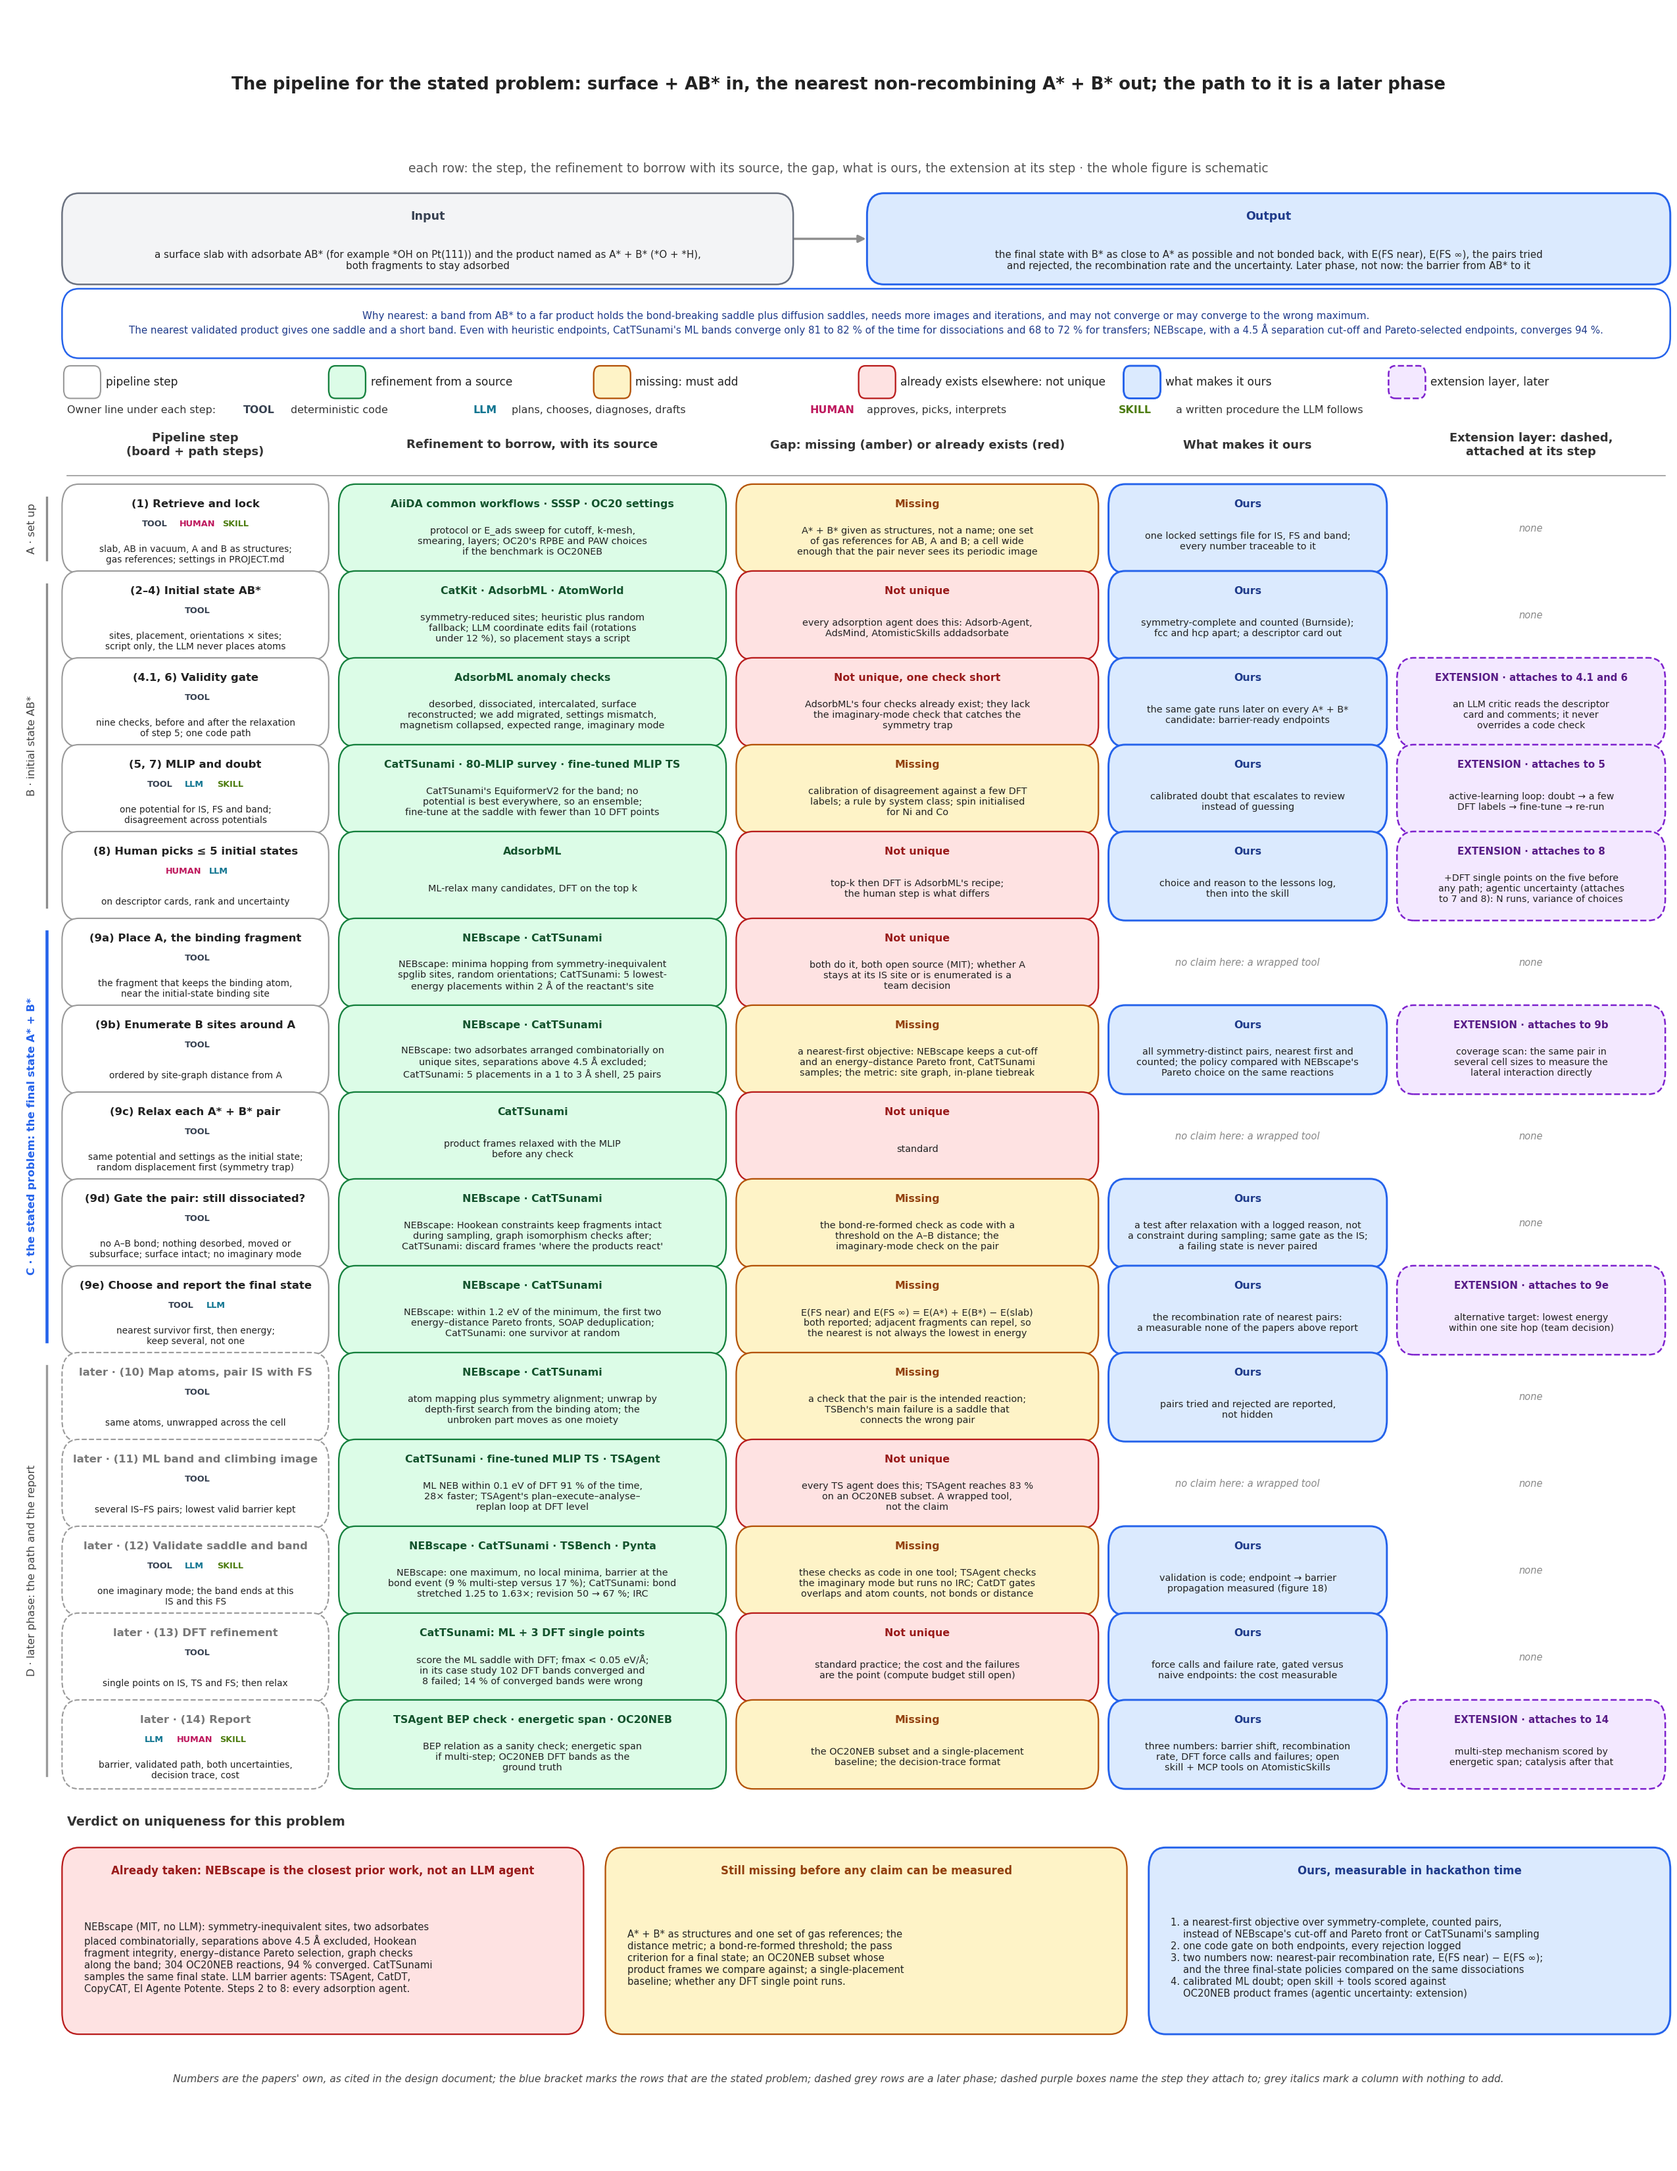
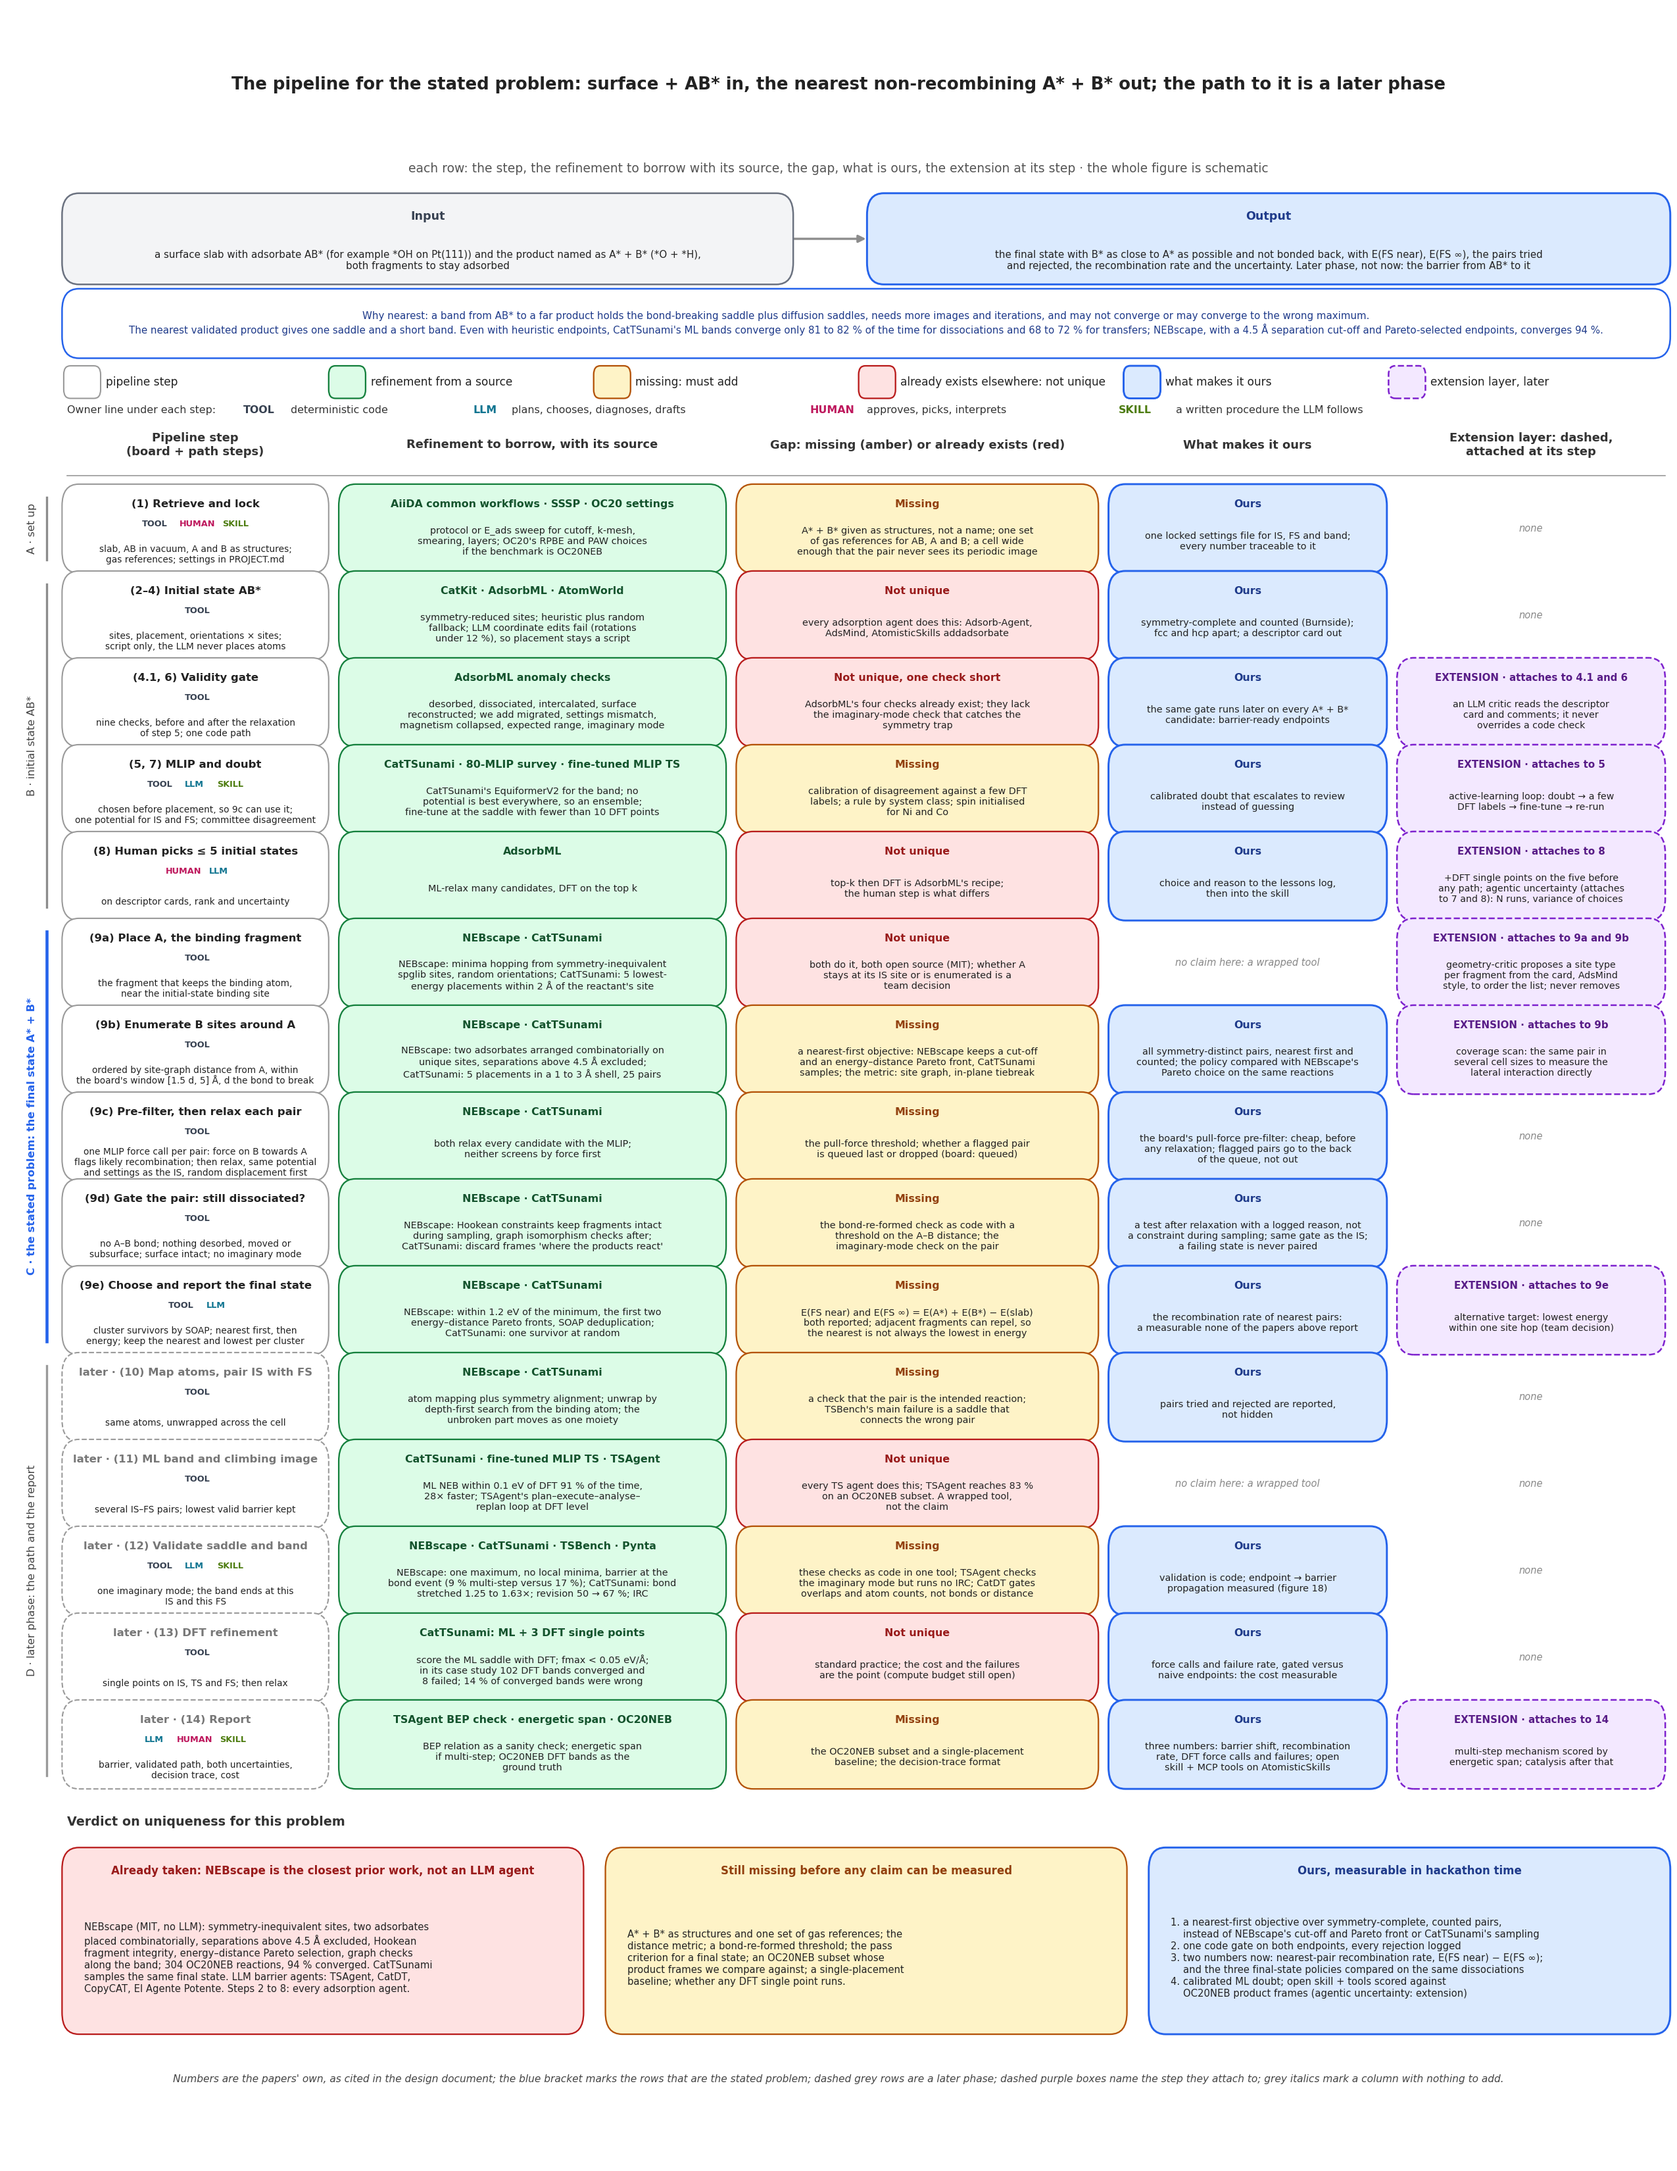
Figures 22 and 23 and the 9a to 9e tables match the board and the build context
9b within the window [1.5 d, 5] Å; 9c pre-filter by one MLIP force call, flagged pairs queued last, then relax; 9e SOAP clustering of survivors; the critic's site-type proposal as an extension at 9a and 9b; potential chosen before placement.

diff --git a/docs/figures/src/23-problem-pipeline.py b/docs/figures/src/23-problem-pipeline.py
@@ -99,7 +99,7 @@ rows = [
   ("exists", "Not unique, one check short", "AdsorbML's four checks already exist; they lack\nthe imaginary-mode check that catches the\nsymmetry trap"),
   "the same gate runs later on every A* + B*\ncandidate: barrier-ready endpoints",
   ("EXTENSION · attaches to 4.1 and 6", "an LLM critic reads the descriptor\ncard and comments; it never\noverrides a code check")),
- ("(5, 7) MLIP and doubt", "one potential for IS, FS and band;\ndisagreement across potentials",
+ ("(5, 7) MLIP and doubt", "chosen before placement, so 9c can use it;\none potential for IS and FS; committee disagreement",
   ("CatTSunami · 80-MLIP survey · fine-tuned MLIP TS", "CatTSunami's EquiformerV2 for the band; no\npotential is best everywhere, so an ensemble;\nfine-tune at the saddle with fewer than 10 DFT points"),
   ("missing", "Missing", "calibration of disagreement against a few DFT\nlabels; a rule by system class; spin initialised\nfor Ni and Co"),
   "calibrated doubt that escalates to review\ninstead of guessing",
@@ -112,21 +112,21 @@ rows = [
  ("(9a) Place A, the binding fragment", "the fragment that keeps the binding atom,\nnear the initial-state binding site",
   ("NEBscape · CatTSunami", "NEBscape: minima hopping from symmetry-inequivalent\nspglib sites, random orientations; CatTSunami: 5 lowest-\nenergy placements within 2 Å of the reactant's site"),
   ("exists", "Not unique", "both do it, both open source (MIT); whether A\nstays at its IS site or is enumerated is a\nteam decision"),
-  None, None),
- ("(9b) Enumerate B sites around A", "ordered by site-graph distance from A",
+  None, ("EXTENSION · attaches to 9a and 9b", "geometry-critic proposes a site type\nper fragment from the card, AdsMind\nstyle, to order the list; never removes")),
+ ("(9b) Enumerate B sites around A", "ordered by site-graph distance from A, within\nthe board's window [1.5 d, 5] Å, d the bond to break",
   ("NEBscape · CatTSunami", "NEBscape: two adsorbates arranged combinatorially on\nunique sites, separations above 4.5 Å excluded;\nCatTSunami: 5 placements in a 1 to 3 Å shell, 25 pairs"),
   ("missing", "Missing", "a nearest-first objective: NEBscape keeps a cut-off\nand an energy–distance Pareto front, CatTSunami\nsamples; the metric: site graph, in-plane tiebreak"),
   "all symmetry-distinct pairs, nearest first and\ncounted; the policy compared with NEBscape's\nPareto choice on the same reactions",
   ("EXTENSION · attaches to 9b", "coverage scan: the same pair in\nseveral cell sizes to measure the\nlateral interaction directly")),
- ("(9c) Relax each A* + B* pair", "same potential and settings as the initial state;\nrandom displacement first (symmetry trap)",
-  ("CatTSunami", "product frames relaxed with the MLIP\nbefore any check"),
-  ("exists", "Not unique", "standard"),
-  None, None),
+ ("(9c) Pre-filter, then relax each pair", "one MLIP force call per pair: force on B towards A\nflags likely recombination; then relax, same potential\nand settings as the IS, random displacement first",
+  ("NEBscape · CatTSunami", "both relax every candidate with the MLIP;\nneither screens by force first"),
+  ("missing", "Missing", "the pull-force threshold; whether a flagged pair\nis queued last or dropped (board: queued)"),
+  "the board's pull-force pre-filter: cheap, before\nany relaxation; flagged pairs go to the back\nof the queue, not out", None),
  ("(9d) Gate the pair: still dissociated?", "no A–B bond; nothing desorbed, moved or\nsubsurface; surface intact; no imaginary mode",
   ("NEBscape · CatTSunami", "NEBscape: Hookean constraints keep fragments intact\nduring sampling, graph isomorphism checks after;\nCatTSunami: discard frames 'where the products react'"),
   ("missing", "Missing", "the bond-re-formed check as code with a\nthreshold on the A–B distance; the\nimaginary-mode check on the pair"),
   "a test after relaxation with a logged reason, not\na constraint during sampling; same gate as the IS;\na failing state is never paired", None),
- ("(9e) Choose and report the final state", "nearest survivor first, then energy;\nkeep several, not one",
+ ("(9e) Choose and report the final state", "cluster survivors by SOAP; nearest first, then\nenergy; keep the nearest and lowest per cluster",
   ("NEBscape · CatTSunami", "NEBscape: within 1.2 eV of the minimum, the first two\nenergy–distance Pareto fronts, SOAP deduplication;\nCatTSunami: one survivor at random"),
   ("missing", "Missing", "E(FS near) and E(FS ∞) = E(A*) + E(B*) − E(slab)\nboth reported; adjacent fragments can repel, so\nthe nearest is not always the lowest in energy"),
   "the recombination rate of nearest pairs:\na measurable none of the papers above report",

diff --git a/docs/figures/src/22-build-plan.py b/docs/figures/src/22-build-plan.py
@@ -81,7 +81,7 @@ task(2, 4, "T10", "ext", "Active-learning loop", "high doubt → a few DFT label
      reuse="AtomisticSkills ml-mace-finetune", needs="T7, D2")
 
 # ---- column 3: path
-task(3, 0, "P1", "build", "Nearest non-recombining FS", "enumerate pairs, relax, gate, rank by\nsite distance; keep several; report\nrejected pairs and E(FS near) − E(FS ∞)",
+task(3, 0, "P1", "build", "Nearest non-recombining FS", "pairs in [1.5 d, 5] Å, pull-force pre-filter,\nrelax, gate, SOAP-cluster, nearest first;\nreport rejections and E(FS near) − E(FS ∞)",
      reuse="NEBscape endpoint generator (MIT), fairchem helpers", needs="T2, T4, T6, D5", badge=6)
 task(3, 1, "P2", "ext", "Later: pairing and connectivity", "atom mapping and unwrapping across the\ncell; check the IS–FS pair is the\nintended reaction",
      reuse="CatTSunami interpolation, NEBscape idea", needs="P1")
@@ -95,7 +95,7 @@ task(3, 4, "P5", "build", "DFT check and report", "DFT single points on the chos
 # ---- column 4: measure and release
 task(4, 0, "M1", "measure", "H on Pt(111) end to end", "steps 1 to 8 on the simplest system;\nE_ads against CE27 and OC20",
      needs="T1 to T8")
-task(4, 1, "M2", "measure", "*OH final state: OC20NEB and NEBscape", "our nearest final state versus the OC20NEB\nproduct frame and NEBscape's Pareto choice:\ndistance, energy, validity; the pass criterion is D3",
+task(4, 1, "M2", "measure", "Final state vs OC20NEB and NEBscape", "our nearest final state versus the OC20NEB\nproduct frame and NEBscape's Pareto choice:\ndistance, energy, validity; the pass criterion is D3",
      needs="P1, P5, D3", badge=7)
 task(4, 2, "M3", "measure", "Two numbers and one comparison", "how often the nearest pair bonds back, per\nsystem and per shell; E(FS near) − E(FS ∞); the\nthree final-state policies, nearest-first, Pareto,\nsampled, on the same OC20NEB dissociations",
      needs="P1, P5")

diff --git a/docs/agent-context.md b/docs/agent-context.md
@@ -352,10 +352,10 @@ Figure 23 as text. Input: a slab with AB*, e.g. *OH on Pt(111), and the product 
 | Sub-step | Owner | CatTSunami | Ours | Output |
 |---|---|---|---|---|
 | 9a Place A, the fragment keeping the binding atom, near the IS site | Tool | 5 lowest-energy placements within 2 Å | All symmetry-distinct placements, counted, or A fixed at its IS site: team decision | Placements of A*, counted |
-| 9b Enumerate B sites around A | Tool | 5 placements in a 1 to 3 Å shell, 25 pairs | All symmetry-distinct pairs by site-graph distance, nearest first, counted; the explicit objective is new | Ordered pairs |
-| 9c Relax each pair | Tool | ML relaxation | Potential and settings of the IS; random displacement first | Relaxed pairs |
+| 9b Enumerate B sites around A | Tool | 5 placements in a 1 to 3 Å shell, 25 pairs | All symmetry-distinct pairs by site-graph distance within [1.5 d, 5] Å, d the bond to break, nearest first, counted; the explicit objective is new | Ordered pairs |
+| 9c Pre-filter, then relax each pair | Tool | ML relaxation | One MLIP force call per pair first: force on B towards A flags likely recombination, pair queued last; then relax with the IS potential and settings, random displacement first | Flagged pairs; relaxed pairs |
 | 9d Gate each pair | Tool | Discard frames "where the products react or some other anomaly occurs" | The IS gate plus an A–B distance threshold; rejections logged; failing states never paired | Survivors; rejections with reasons |
-| 9e Choose | Tool, LLM writes it up | One survivor at random | Nearest survivor first, then energy; keep several | Final states, E(FS near), E(FS ∞), recombination rate |
+| 9e Choose | Tool, LLM writes it up | One survivor at random | SOAP-cluster the survivors; nearest first, then energy; keep the nearest and lowest per cluster | Final states, E(FS near), E(FS ∞), recombination rate |
 
 Verdict. Taken: the final state by cut-off and Pareto trade-off, NEBscape, and by sampling, CatTSunami; ML bands; LLM barrier agents incl. El Agente Potente; rates with IRC, Pynta; global-optimisation endpoints, NEBscape; steps 2 to 8, every adsorption agent, e.g. AtomisticSkills addadsorbate. Missing: A* + B* as structures and gas references; distance metric; bond-re-formed threshold; final-state pass criterion; an OC20NEB subset to compare product frames against; a single-placement baseline; whether any DFT single point runs. Ours: the explicit objective over symmetry-complete pairs, not lowest energy in a shell and a random pick; one logged code gate on both endpoints; two numbers now, recombination rate and E(FS near) − E(FS ∞), later barrier shift and band cost; calibrated doubt; open skill and tools scored against OC20NEB product frames; agentic uncertainty as extension. Open questions: section 17.
 
